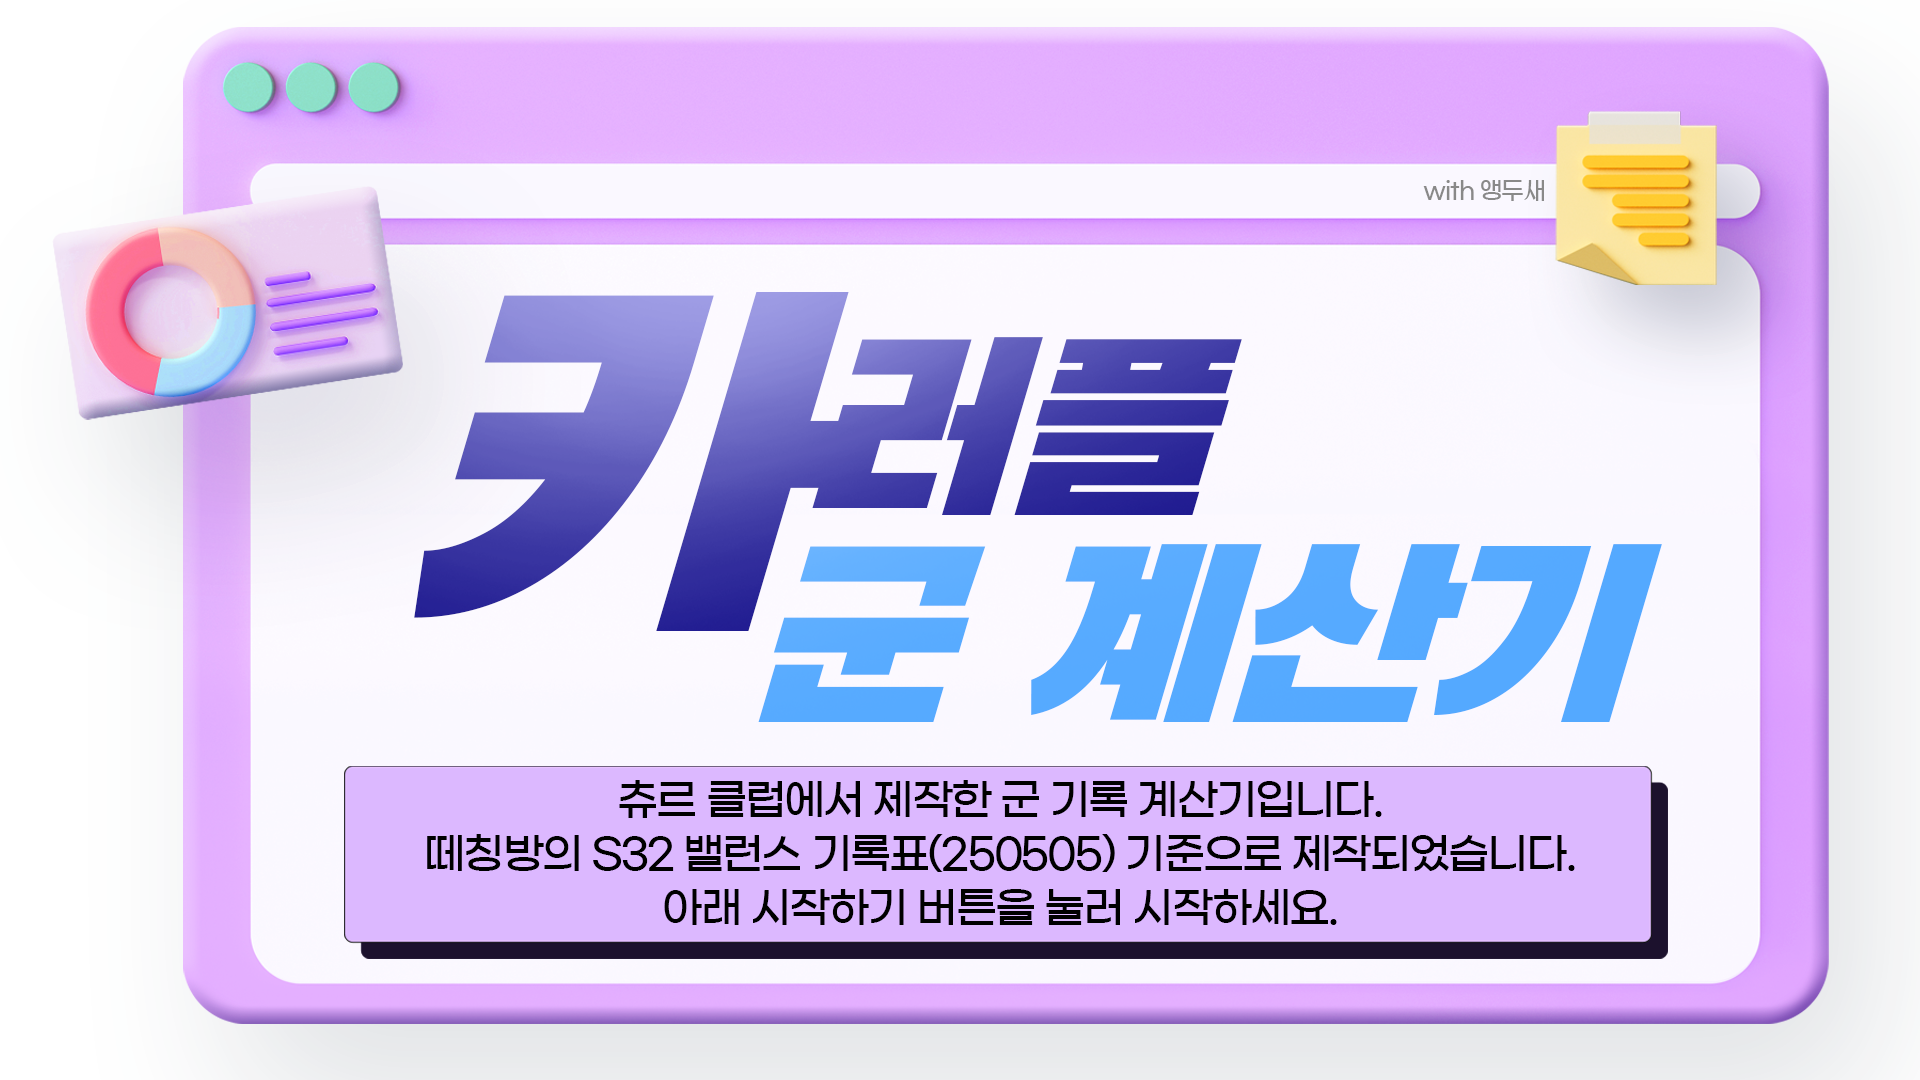
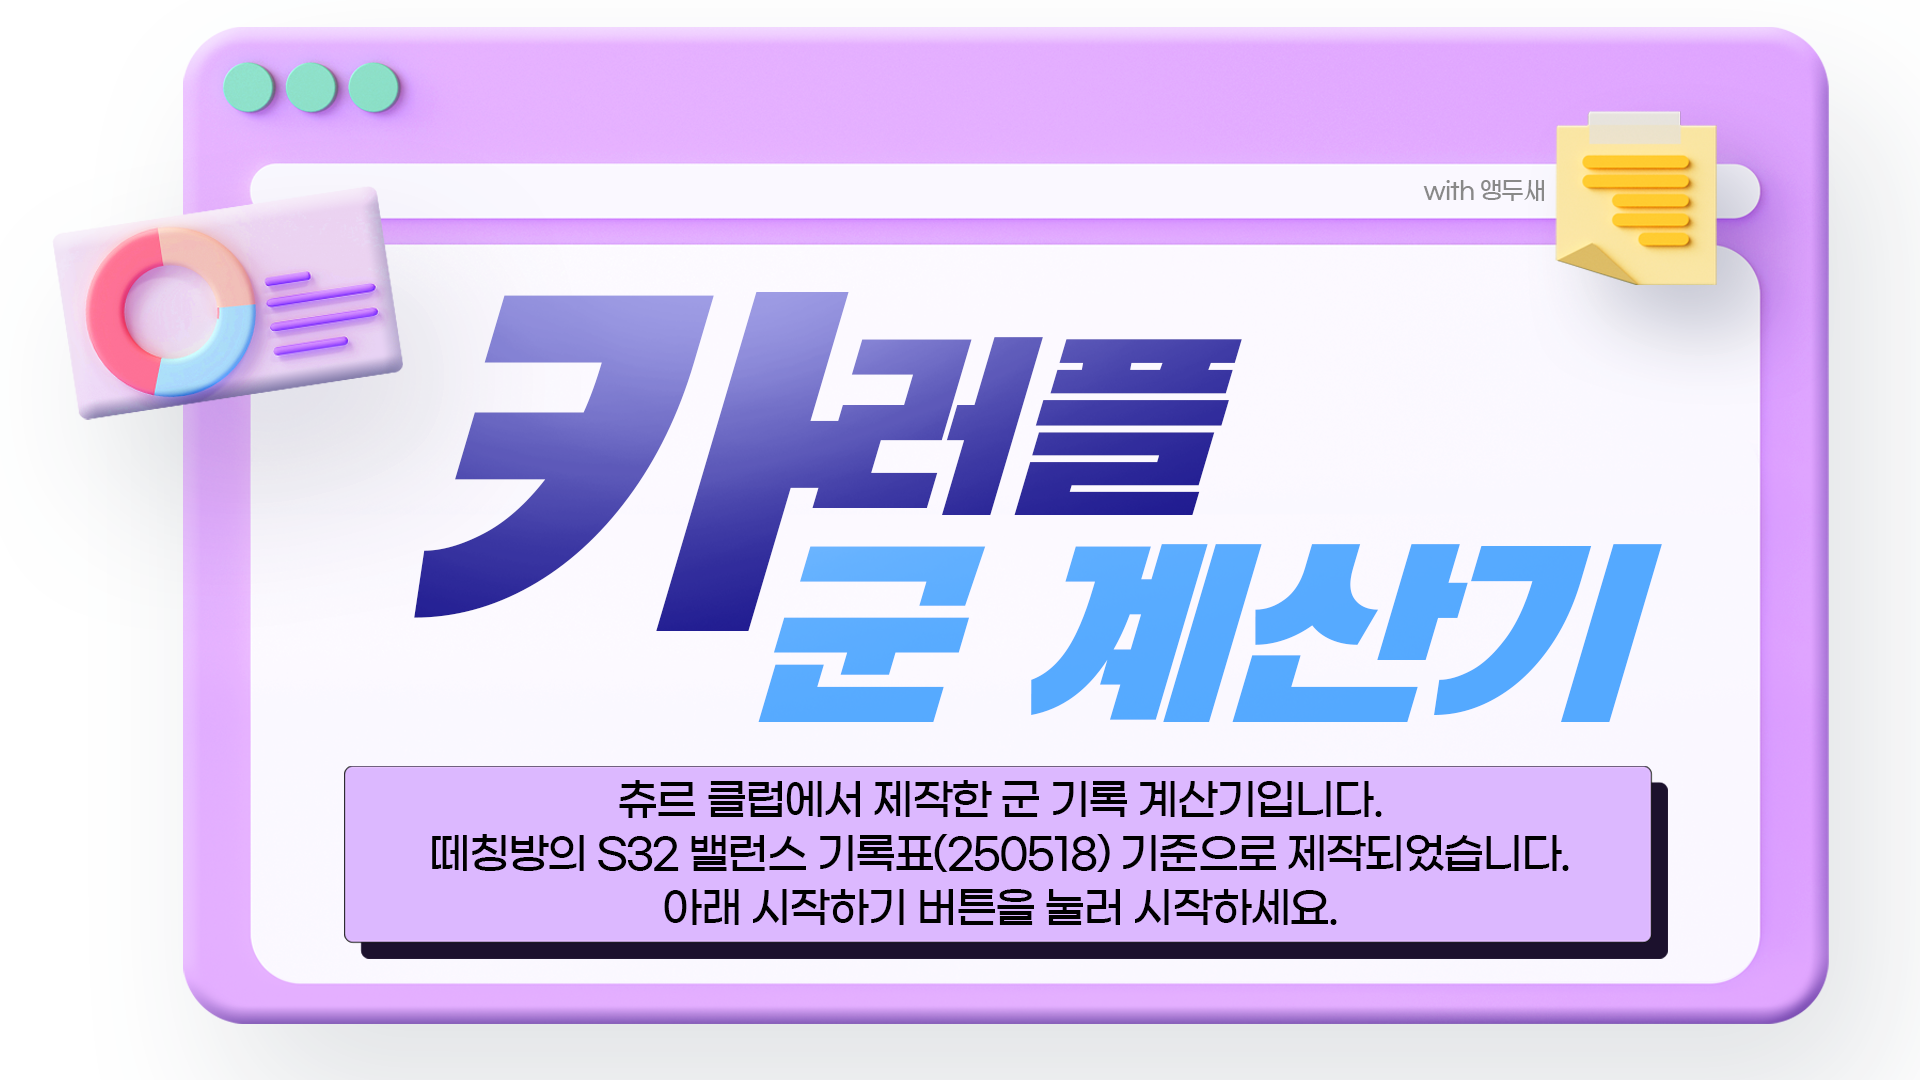
[frontend] feat: New S32 track

Changed region(s): [[0.2188, 0.7639, 0.8125, 0.825]]

diff --git a/client/src/global/mapImages.js b/client/src/global/mapImages.js
@@ -45,6 +45,7 @@ import L3_031 from "../assets/images/map/031 신화 오딘의 궁전.png";
 import L3_032 from "../assets/images/map/032 올림포스 제우스시티.png";
 import L3_033 from "../assets/images/map/033 월드 이탈리아 여행.png";
 import L3_034 from "../assets/images/map/034 카멜롯 외곽 순찰로.png";
+import L3_035 from "../assets/images/map/035 어비스 바다 소용돌이.png";
 
 import L2_001 from "../assets/images/map/001 병마용.png";
 import L2_002 from "../assets/images/map/002 만리장성.png";
@@ -138,6 +139,7 @@ const mapImages = [
   L3_032,
   L3_033,
   L3_034,
+  L3_035,
 
   L2_001,
   L2_002,

diff --git a/client/src/global/mapData.js b/client/src/global/mapData.js
@@ -598,6 +598,19 @@ const mapData = [
     ],
     image: "034 카멜롯 외곽 순찰로.png",
   },
+  {
+    name: "어비스 바다 소용돌이",
+    record: [
+      "01:30:49",
+      "01:31:99",
+      "01:33:49",
+      "01:34:99",
+      "01:36:49",
+      "01:37:99",
+      "01:37:99 +",
+    ],
+    image: "035 어비스 바다 소용돌이.png",
+  },
 
   {
     name: "차이나 서안 병마용",
@@ -1150,7 +1163,7 @@ const mapData = [
 
 const mapCount = {
   Rookie: 12,
-  L3: 33,
+  L3: 34,
   L2: 29,
   L1: 13,
 };
